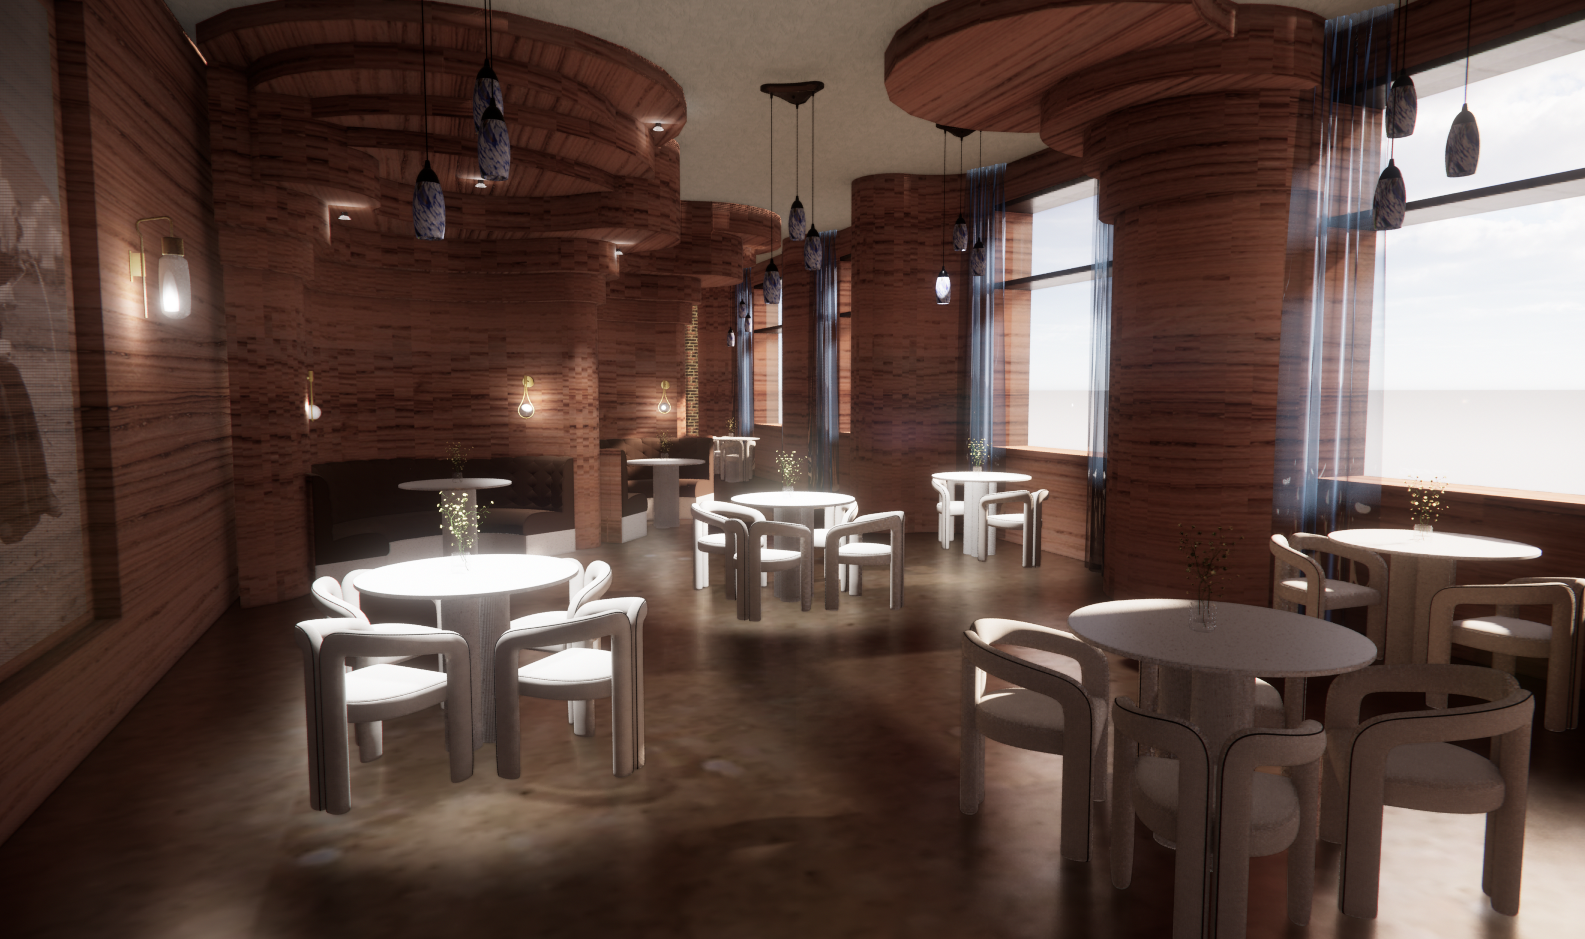
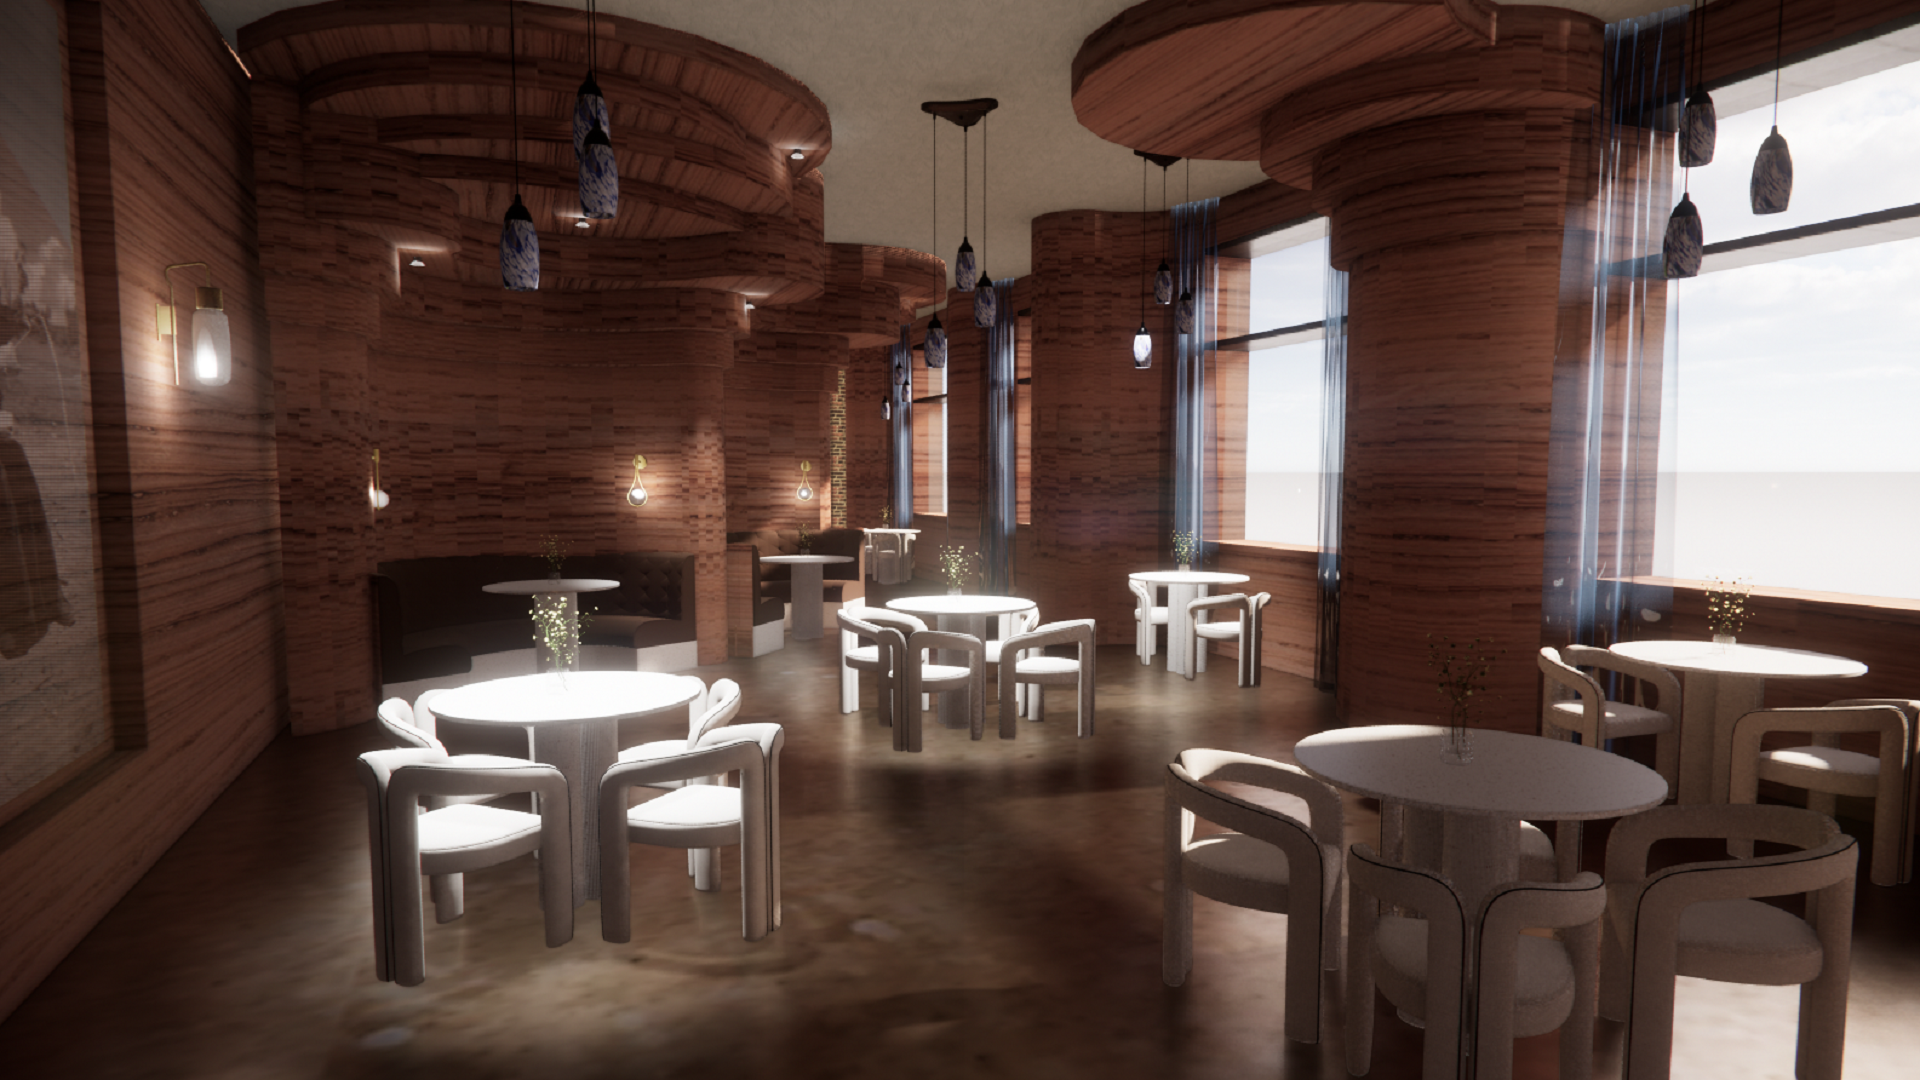
auto slideshow and cleanup

diff --git a/index.html b/index.html
@@ -9,8 +9,8 @@
         <div id="header">
             <div id="menu">
                 <ul>
-                    <li>
-                        <a class="logo" href="index.html"><img id="logo" src="Images/logo.png"></a>
+                    <li class="logo" >
+                        <a href="index.html"><img id="logo" src="Images/logo.png"></a>
                     </li>
                     <li>
                         <a class="menuItem" href="pages/designer.html">DESIGNER</a>
@@ -42,43 +42,37 @@
         <div id="content">
             <div class="slideshow">
                 <div class="slide fade">
-                    <img src="Images/SlideShow1.png" style="width:100%; height: 715px;">
-                    <div class="slidetext">Caption 1</div>
+                    <img src="Images/SlideShow1.png">
                 </div>
                 <div class="slide fade">
-                    <img src="Images/SlideShow2.png" style="width:100%; height: 715px;">
-                    <div class="slidetext">Caption 2</div>
+                    <img src="Images/SlideShow2.png">
                 </div>
                 <div class="slide fade">
-                    <img src="Images/SlideShow3.png" style="width:100%; height: 715px;">
-                    <div class="slidetext">Caption 3</div>
+                    <img src="Images/SlideShow3.png">
                 </div>
                 <div class="slide fade">
-                    <img src="Images/SlideShow4.png" style="width:100%; height: 715px;">
-                    <div class="slidetext">Caption 4</div>
+                    <img src="Images/SlideShow4.png">
                 </div>
                 <div class="slide fade">
-                    <img src="Images/SlideShow5.png" style="width:100%; height: 715px;">
-                    <div class="slidetext">Caption 5</div>
+                    <img src="Images/SlideShow5.png">
                 </div>
                 <div class="slide fade">
-                    <img src="Images/SlideShow6.png" style="width:100%; height: 715px;">
-                    <div class="slidetext">Caption 6</div>
+                    <img src="Images/SlideShow6.png">
                 </div>
 
                 <!-- Bottom circle buttons -->
                 <div style="text-align:center">
-                    <span class="dot" onclick="currentSlide(1)"></span>
-                    <span class="dot" onclick="currentSlide(2)"></span>
-                    <span class="dot" onclick="currentSlide(3)"></span>
-                    <span class="dot" onclick="currentSlide(4)"></span>
-                    <span class="dot" onclick="currentSlide(5)"></span>
-                    <span class="dot" onclick="currentSlide(6)"></span>
+                    <span class="dot" onclick="jumpToSlide(1)"></span>
+                    <span class="dot" onclick="jumpToSlide(2)"></span>
+                    <span class="dot" onclick="jumpToSlide(3)"></span>
+                    <span class="dot" onclick="jumpToSlide(4)"></span>
+                    <span class="dot" onclick="jumpToSlide(5)"></span>
+                    <span class="dot" onclick="jumpToSlide(6)"></span>
                 </div>
                 
                 <!-- Next and previous buttons -->
-                <a class="prev" onclick="plusSlides(-1)">&#10094;</a>
-                <a class="next" onclick="plusSlides(1)">&#10095;</a>
+                <a class="prev" onclick="plusSlides(-1, false)">&#10094;</a>
+                <a class="next" onclick="plusSlides(1, false)">&#10095;</a>
             </div>
         </div>
 
@@ -87,19 +81,27 @@
 </html>
 
 <script>
-    //window.onload=function(){
-    //    console.log("asdf");
-        let slideIndex = 1;
-        showSlides(slideIndex);
-    //}
+    let slideIndex = 1;
+    let slideshow = true;
+
+    showSlides(slideIndex);
+
+    setInterval(() => {
+        if (slideshow == true) {
+            plusSlides(1, true)
+        }
+    }, 3000);
 
     // Next/previous controls
-    function plusSlides(n) {
+    function plusSlides(n, auto) {
+        if (!auto){
+            slideshow = false;
+        }
+
         showSlides(slideIndex += n);
     }
 
-    // Thumbnail image controls
-    function currentSlide(n) {
+    function jumpToSlide(n) {
         showSlides(slideIndex = n);
     }
 

diff --git a/css/home.css b/css/home.css
@@ -4,6 +4,8 @@ body {
 
     height: 100vh;
     width: 100vw;
+
+    overflow-x: hidden;
 }
 
 #header {
@@ -17,11 +19,18 @@ body {
     background-repeat: no-repeat;
 }
 
-#logo {
+.logo {
     /*Positioning*/
     /*Design*/
-    width: 20%;
-    margin-right: 90%;
+    height: 60px;
+    
+    margin-right: 20%;
+}
+
+#logo {
+  /*Positioning*/
+  /*Design*/
+  height: 60px;
 }
 
 #menu {
@@ -102,8 +111,8 @@ body {
 }
 
 #content {
-    padding: 2rem;
-    padding-top: 4rem;
+    padding-left: 6rem;
+    padding-right: 6rem;
 }
 
 /*#content a {
@@ -128,14 +137,28 @@ body {
 
 /* Slideshow container */
 .slideshow {
-  max-width: 80%;
   position: relative;
-  margin: auto;
+  width: auto; 
+  max-height: 800px; 
 }
 
 /* Hide the images by default */
 .slide {
   display: none;
+  margin-bottom: 1rem;
+}
+
+.slide img {
+  /* width: auto; 
+  height: 60%; 
+  background-size: cover; */
+
+    width: 100%;
+    overflow: hidden;
+    display: flex;
+    justify-content: center;
+    object-fit: cover; 
+
 }
 
 /* Next & previous buttons */
@@ -144,10 +167,9 @@ body {
   position: absolute;
   top: 50%;
   width: auto;
-  margin-top: -131px;
   padding: 25px;
-  padding-top: 100px;
-  padding-bottom: 100px;
+  padding-top: 30px;
+  padding-bottom: 30px;
   color: #eaeaee;
   font-weight: bold;
   font-size: 40px;

diff --git a/pages/corporate.html b/pages/corporate.html
@@ -7,9 +7,11 @@
 
     <body>
         <div id="header">
-            <a href="../PortfolioWebsite.html"><img id="logo" src="../Images/logo.png"></a>
             <div id="menu">
                 <ul>
+                    <li class="logo" >
+                        <a href="../index.html"><img id="logo" src="../Images/logo.png"></a>
+                    </li>
                     <li>
                         <a class="menuItem" href="designer.html">DESIGNER</a>
                     </li>

diff --git a/pages/designer.html b/pages/designer.html
@@ -7,9 +7,11 @@
 
     <body>
         <div id="header">
-            <a href="../PortfolioWebsite.html"><img id="logo" src="../Images/logo.png"></a>
             <div id="menu">
                 <ul>
+                    <li class="logo" >
+                        <a href="../index.html"><img id="logo" src="../Images/logo.png"></a>
+                    </li>
                     <li>
                         <a class="menuItem" href="designer.html">DESIGNER</a>
                     </li>

diff --git a/pages/education.html b/pages/education.html
@@ -7,9 +7,11 @@
 
     <body>
         <div id="header">
-            <a href="../PortfolioWebsite.html"><img id="logo" src="../Images/logo.png"></a>
             <div id="menu">
                 <ul>
+                    <li class="logo" >
+                        <a href="../index.html"><img id="logo" src="../Images/logo.png"></a>
+                    </li>
                     <li>
                         <a class="menuItem" href="designer.html">DESIGNER</a>
                     </li>

diff --git a/pages/otherWorks.html b/pages/otherWorks.html
@@ -7,9 +7,11 @@
 
     <body>
         <div id="header">
-            <a href="../PortfolioWebsite.html"><img id="logo" src="../Images/logo.png"></a>
             <div id="menu">
                 <ul>
+                    <li class="logo" >
+                        <a href="../index.html"><img id="logo" src="../Images/logo.png"></a>
+                    </li>
                     <li>
                         <a class="menuItem" href="designer.html">DESIGNER</a>
                     </li>

diff --git a/pages/restaurant.html b/pages/restaurant.html
@@ -7,9 +7,11 @@
 
     <body>
         <div id="header">
-            <a href="../PortfolioWebsite.html"><img id="logo" src="../Images/logo.png"></a>
             <div id="menu">
                 <ul>
+                    <li class="logo" >
+                        <a href="../index.html"><img id="logo" src="../Images/logo.png"></a>
+                    </li>
                     <li>
                         <a class="menuItem" href="designer.html">DESIGNER</a>
                     </li>

diff --git a/pages/retail.html b/pages/retail.html
@@ -7,9 +7,11 @@
 
     <body>
         <div id="header">
-            <a href="../PortfolioWebsite.html"><img id="logo" src="../Images/logo.png"></a>
             <div id="menu">
                 <ul>
+                    <li class="logo" >
+                        <a href="../index.html"><img id="logo" src="../Images/logo.png"></a>
+                    </li>
                     <li>
                         <a class="menuItem" href="designer.html">DESIGNER</a>
                     </li>
